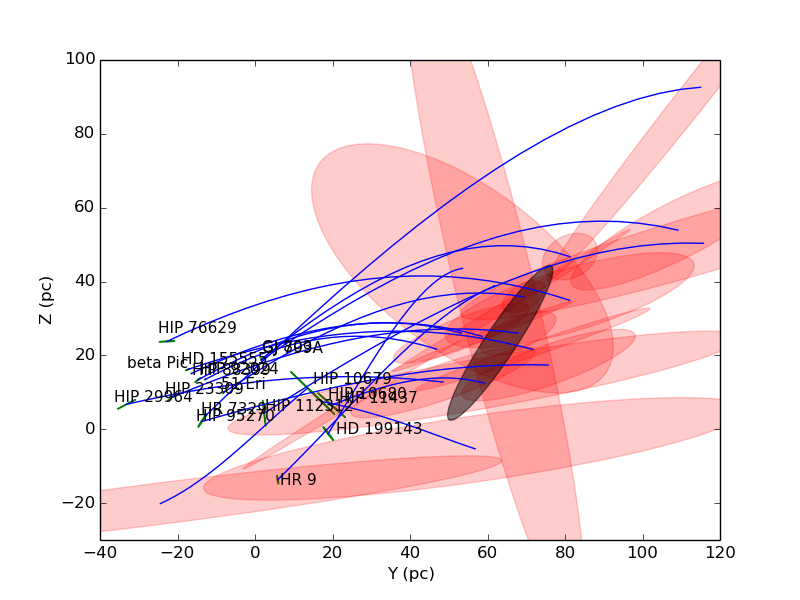
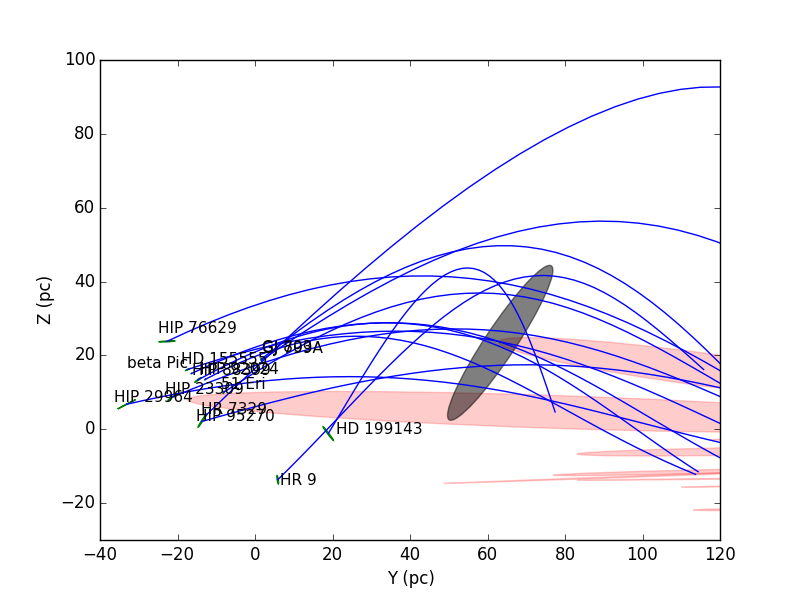
Fixed a sign error in the production of "times"

diff --git a/chronostar/traceback.py b/chronostar/traceback.py
@@ -56,6 +56,8 @@ class TraceBack():
     
         Parameters
         ----------
+        times: float array
+            Times to trace back, in Myr. Note that positive numbers are going backwards in time.
         max_plot_error: float
             Maximum positional error in pc to allow plotting.
         dims: list with 2 ints
@@ -66,7 +68,7 @@ class TraceBack():
         nstars = self.nstars
         stars = self.stars
         #Times in Myr
-        ts = (times/1e3)/bovy_conversion.time_in_Gyr(220.,8.)
+        ts = -(times/1e3)/bovy_conversion.time_in_Gyr(220.,8.)
         nts = len(times)
         
         #Positions and velocities in the co-rotating solar reference frame.
@@ -167,7 +169,7 @@ if __name__ == "__main__":
     #Remove bad stars. "bp" stands for Beta Pictoris.
     bp = bp[np.where([ (n.find('6070')<0) & (n.find('12545')<0) & (n.find('Tel')<0) for n in bp['Name']])[0]]
 
-    times = -np.linspace(0,20,21)
+    times = np.linspace(0,40,41)
 
     dims = [1,2]
     dim1=dims[0]
@@ -187,7 +189,7 @@ if __name__ == "__main__":
 
     #Read in the csv file and trace back orbits with plotting.
     tb = TraceBack(bp)
-    tb.traceback(times,xoffset=xoffset, yoffset=yoffset, axis_range=axis_range, dims=dims,plotit=True)
+    tb.traceback(times,xoffset=xoffset, yoffset=yoffset, axis_range=axis_range, dims=dims,plotit=True,savefile="traceback_save.pkl")
 
     
     #Error ellipse for the association.

diff --git a/chronostar/fit_group.py b/chronostar/fit_group.py
@@ -306,7 +306,7 @@ def lnprob_one_cluster(x, star_params, background_density=2e-12,t_ix = 20,return
 
     #See if we have to interpolate in time.
     if len(x)>13:
-        if ( (x[13] < 0) | (x[13] >= nt-1)):
+        if ( (x[13] < min(times)) | (x[13] > max(times))):
             return -practically_infinity
         #Linearly interpolate in time to get bs and Bs
         #Note that there is a fast scipy package (in ndimage?) that is good for this.
